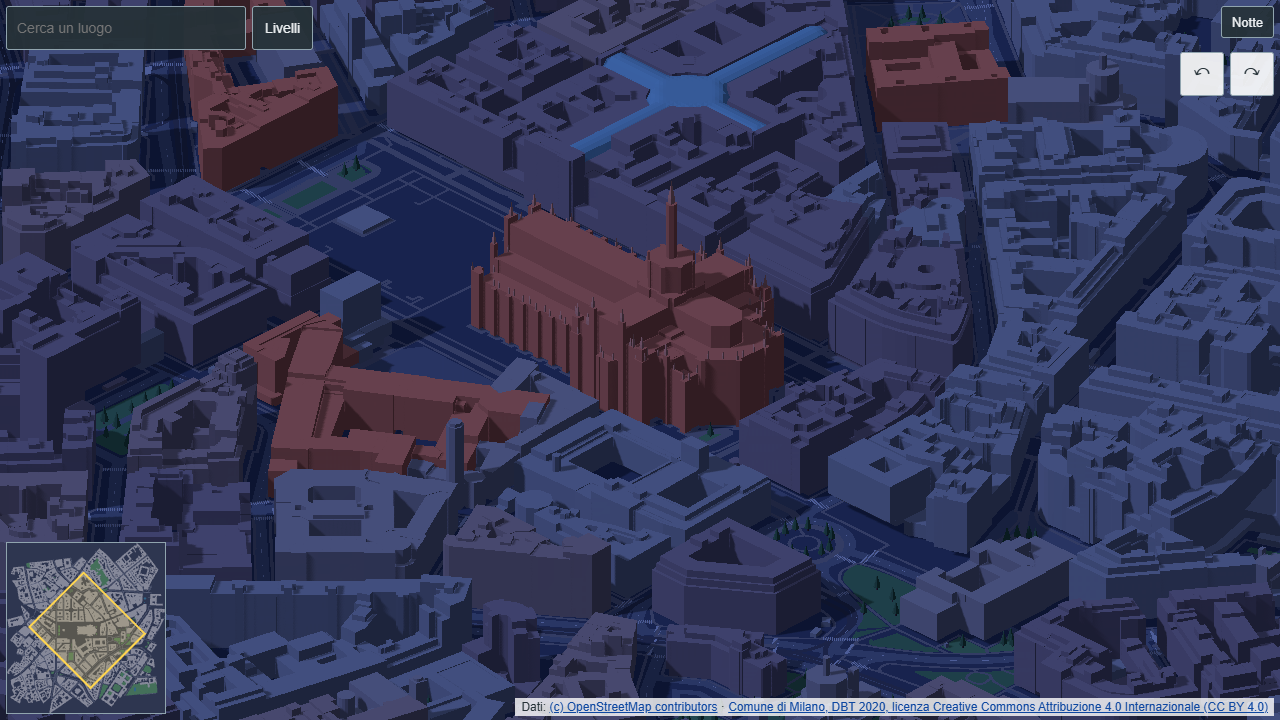
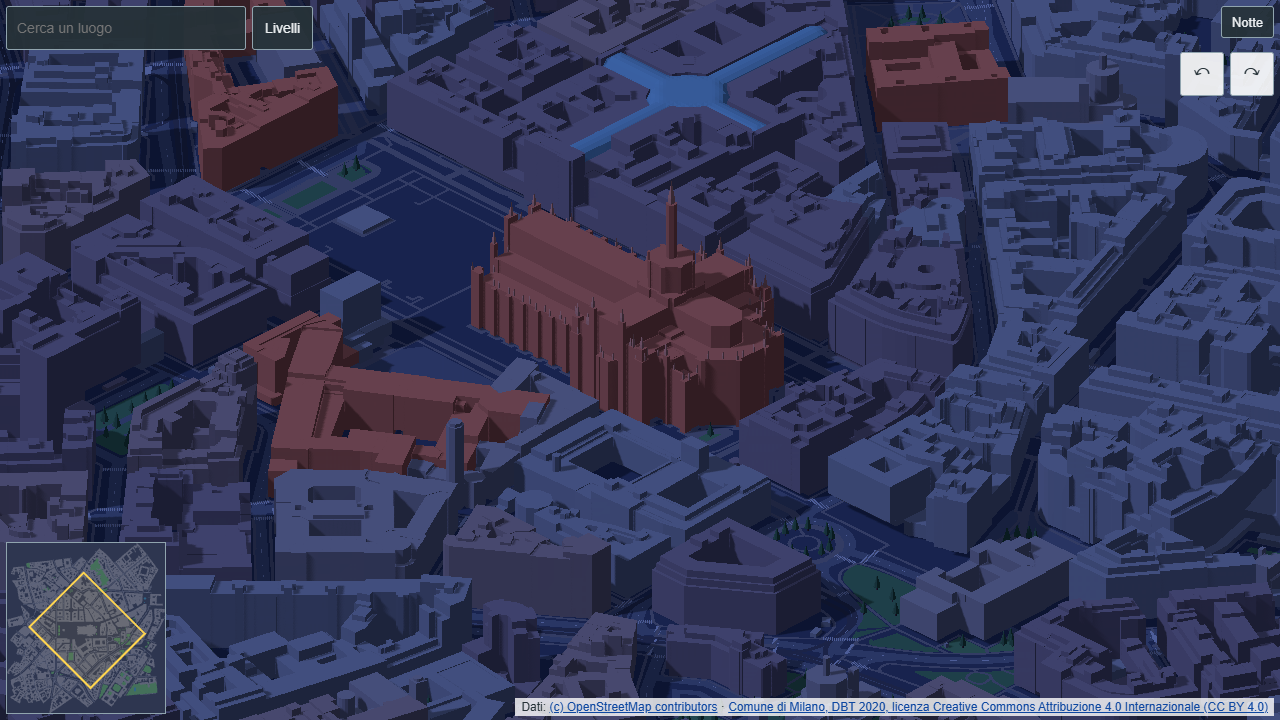
T-5.3b: minimap night colours read as night; tests for day/night and open state

Changed region(s): [[0.0, 0.7639, 0.125, 0.9778]]

diff --git a/web/e2e/toolbar.spec.ts b/web/e2e/toolbar.spec.ts
@@ -339,16 +339,56 @@ test('the minimap file is sanitised: scripts and on* attributes never reach the 
   expect(problems).toEqual([]);
 });
 
-test('night mode themes the minimap with the night palette', async ({ page }) => {
+const FILLS = {
+  day: { ground: 'rgb(227, 222, 212)', building: 'rgb(214, 208, 200)' }, // 0xe3ded4, 0xd6d0c8
+  night: { ground: 'rgb(46, 54, 80)', building: 'rgb(94, 99, 120)' }, // 0x2e3650, 55% 0x858899 + 45% ground
+};
+async function fills(page: Page): Promise<{ ground: string; building: string }> {
+  return page.evaluate(() => {
+    const f = (sel: string): string => getComputedStyle(document.querySelector(sel) as Element).fill;
+    return { ground: f('#minimap .mm-ground'), building: f('#minimap .mm-building') };
+  });
+}
+
+test('starting in night, the minimap ground and buildings use the night colours', async ({ page }) => {
   await open(page, '&time=night');
   await expect(page.locator('#minimap')).toHaveAttribute('data-mode', 'night');
-  const fill = await page.locator('#minimap .mm-ground').evaluate((e) => getComputedStyle(e).fill);
-  expect(fill).toBe('rgb(46, 54, 80)'); // 0x2e3650
+  expect(await fills(page)).toEqual(FILLS.night);
+});
+
+test('day to night to day recolours the minimap (desktop: always visible)', async ({ page }) => {
+  await open(page);
+  expect(await fills(page)).toEqual(FILLS.day);
   await page.locator('#mode-toggle').click();
-  await expect(page.locator('#minimap')).toHaveAttribute('data-mode', 'day');
-  expect(await page.locator('#minimap .mm-ground').evaluate((e) => getComputedStyle(e).fill)).toBe(
-    'rgb(227, 222, 212)', // 0xe3ded4
-  );
+  await expect.poll(() => fills(page)).toEqual(FILLS.night);
+  await page.locator('#mode-toggle').click();
+  await expect.poll(() => fills(page)).toEqual(FILLS.day);
+});
+
+test.describe('minimap theming at 412 px, panel opened before or after the toggle', () => {
+  test.use({ viewport: { width: 412, height: 915 } });
+  test('opened before the toggle', async ({ page }) => {
+    await open(page);
+    await page.locator('#minimap-button').click();
+    await expect(page.locator('#minimap')).toBeVisible();
+    expect(await fills(page)).toEqual(FILLS.day);
+    await page.locator('#mode-toggle').click();
+    await expect.poll(() => fills(page)).toEqual(FILLS.night);
+    await page.locator('#mode-toggle').click();
+    await expect.poll(() => fills(page)).toEqual(FILLS.day);
+  });
+  test('opened after the toggle', async ({ page }) => {
+    await open(page);
+    await page.locator('#mode-toggle').click();
+    await page.locator('#minimap-button').click();
+    await expect(page.locator('#minimap')).toBeVisible();
+    await expect.poll(() => fills(page)).toEqual(FILLS.night);
+    await page.locator('#minimap-button').click(); // close
+    await page.locator('#mode-toggle').click(); // back to day while closed
+    await page.locator('#minimap-button').click();
+    await expect(page.locator('#minimap')).toBeVisible();
+    await expect.poll(() => fills(page)).toEqual(FILLS.day);
+  });
 });
 
 type Box = { x: number; y: number; width: number; height: number };

diff --git a/web/src/minimap.ts b/web/src/minimap.ts
@@ -85,15 +85,26 @@ export function polygonPoints(poly: readonly (readonly [number, number])[]): str
   return poly.map(([x, z]) => `${Math.round(x * 10) / 10},${Math.round(z * 10) / 10}`).join(' ');
 }
 
+/** Style constant: night minimap buildings are the night building colour pulled towards the ground, so they do not read brighter than the lit 3D buildings. */
+export const NIGHT_BUILDING_MIX = 0.55;
+
+/** Linear mix of two 0xRRGGBB colours: fraction t of a, the rest of b, rounded per channel. */
+export function mixRgb(a: number, b: number, t: number): number {
+  const ch = (shift: number): number =>
+    Math.round(((a >> shift) & 255) * t + ((b >> shift) & 255) * (1 - t));
+  return (ch(16) << 16) | (ch(8) << 8) | ch(0);
+}
+
 /** CSS mapping the minimap classes (mm-*, ADR-0031) to the night palette; day uses the file's own. */
 export function nightCss(): string {
   const p = paletteFor('night');
   const hex = (n: number): string => '#' + n.toString(16).padStart(6, '0');
+  const building = mixRgb(p.buildingOther, p.ground, NIGHT_BUILDING_MIX);
   return [
     `#minimap[data-mode="night"] .mm-ground{fill:${hex(p.ground)}}`,
     `#minimap[data-mode="night"] .mm-green{fill:${hex(p.green)}}`,
     `#minimap[data-mode="night"] .mm-water{fill:${hex(p.water)}}`,
-    `#minimap[data-mode="night"] .mm-building{fill:${hex(p.buildingOther)}}`,
+    `#minimap[data-mode="night"] .mm-building{fill:${hex(building)}}`,
     `#minimap[data-mode="night"] .mm-road-minor{stroke:${hex(p.roadMinor)}}`,
     `#minimap[data-mode="night"] .mm-road-major{stroke:${hex(p.roadMajor)}}`,
   ].join('\n');

diff --git a/web/src/minimap.test.ts b/web/src/minimap.test.ts
@@ -1,6 +1,6 @@
 import { describe, expect, it } from 'vitest';
 import { CameraRig, azimuthOfStep } from './camera';
-import { type SanNode, clientToLocal, nightCss, parseViewBox, polygonPoints, sanitiseTree, viewFootprint } from './minimap';
+import { type SanNode, clientToLocal, mixRgb, nightCss, parseViewBox, polygonPoints, sanitiseTree, viewFootprint } from './minimap';
 
 interface FakeNode extends SanNode {
   attrs: { name: string; value: string }[];
@@ -121,5 +121,9 @@ describe('helpers', () => {
       expect(css).toContain(c);
     }
     expect(css).toContain('#2e3650'); // night ground
+    expect(css).toContain('#5e6378'); // building: 55% 0x858899 + 45% 0x2e3650
+  });
+  it('mixes colours per channel', () => {
+    expect(mixRgb(0xffffff, 0x000000, 0.5)).toBe(0x808080);
   });
 });

diff --git a/web/index.html b/web/index.html
@@ -53,7 +53,7 @@
       #minimap { box-sizing: border-box; position: fixed; left: 6px; bottom: 6px; width: 160px; line-height: 0; border: 1px solid var(--tb-border); background: var(--tb-bg); cursor: crosshair; }
       #minimap svg { width: 100%; height: auto; display: block; }
       #minimap .mm-view { fill: rgba(13, 71, 161, 0.18); stroke: #0d47a1; stroke-width: 2; vector-effect: non-scaling-stroke; }
-      #minimap[data-mode="night"] .mm-view { fill: rgba(255, 213, 79, 0.2); stroke: #ffd54f; }
+      #minimap[data-mode="night"] .mm-view { fill: rgba(255, 213, 79, 0.07); stroke: #ffd54f; }
       #minimap-button { display: none; }
       @media (max-width: 600px) {
         /* Keep clear of the day/night toggle and the rotation buttons (top right, T-4.3 / T-5.2). */

diff --git a/reports/R-5.3b.md b/reports/R-5.3b.md
@@ -73,3 +73,12 @@ Item coverage:
 - Index and minimap are read from the current real tileset (T-5.3a, 277 entries). For the whole city the index will be large; a lazy fetch is already in place, but search will need a server-less sharding strategy in Phase 6 (not decided here).
 - The search is language-agnostic folding only (accents, case, punctuation); no typo tolerance.
 - The visible UI language is fixed to Italian (`DEFAULT_LANG`) as elsewhere in the app; English strings exist but no switch exists yet, so they are covered only by the i18n key-parity test.
+
+## Amendment 1 - minimap night look (review finding)
+- **Finding:** in `minimap-night-*.png` the minimap read as day colours.
+- **Cause (checked, not guessed):** the theming plumbing was working. `data-mode` is set on `#minimap` from the first `setMode` (so it is correct for `?time=night` and stored night) and the night CSS beats the SVG's own `<style>` by id specificity. The original e2e already read the computed ground fill as 0x2e3650. What looked wrong was the colours: night buildings used the night palette `buildingOther` (0x858899), a light grey that dominates a dense minimap, and the night view polygon fill (alpha 0.2 yellow) tinted the whole 412 px minimap beige, because the footprint covers most of it there. So not one of the three suspects; a style problem plus weak tests (only ground, only one path).
+- **Fix:** night minimap buildings are now 55% night `buildingOther` + 45% night ground (0x5e6378, `NIGHT_BUILDING_MIX` in `minimap.ts`); night view polygon fill alpha 0.07. These are style choices, not data.
+- **Tests added** (`toolbar.spec.ts`, computed `fill` of `.mm-ground` and `.mm-building`): start with `?time=night`; day to night to day on desktop; at 412 px with the panel opened before the toggle, and opened after the toggle (including closing, toggling back to day, reopening). Unit tests for `mixRgb` and the building colour in `nightCss`.
+- **Screenshots regenerated and viewed:** `reports/artifacts/T-5.3b/minimap-night-{1280x720,412x915}.png` (all other screenshots regenerated by the same script, content unchanged).
+- **Verification:** typecheck and lint clean; unit 164 passed; full e2e 77 passed, three runs in a row (1.1m, 1.2m, 1.1m), default workers. Preview on 4183 for the screenshots was started by me and stopped by PID (the PID was the only listener on 4183).
+- Not changed (outside the finding): the rotation buttons keep their day look at night (T-5.2 inline style, unchanged).
